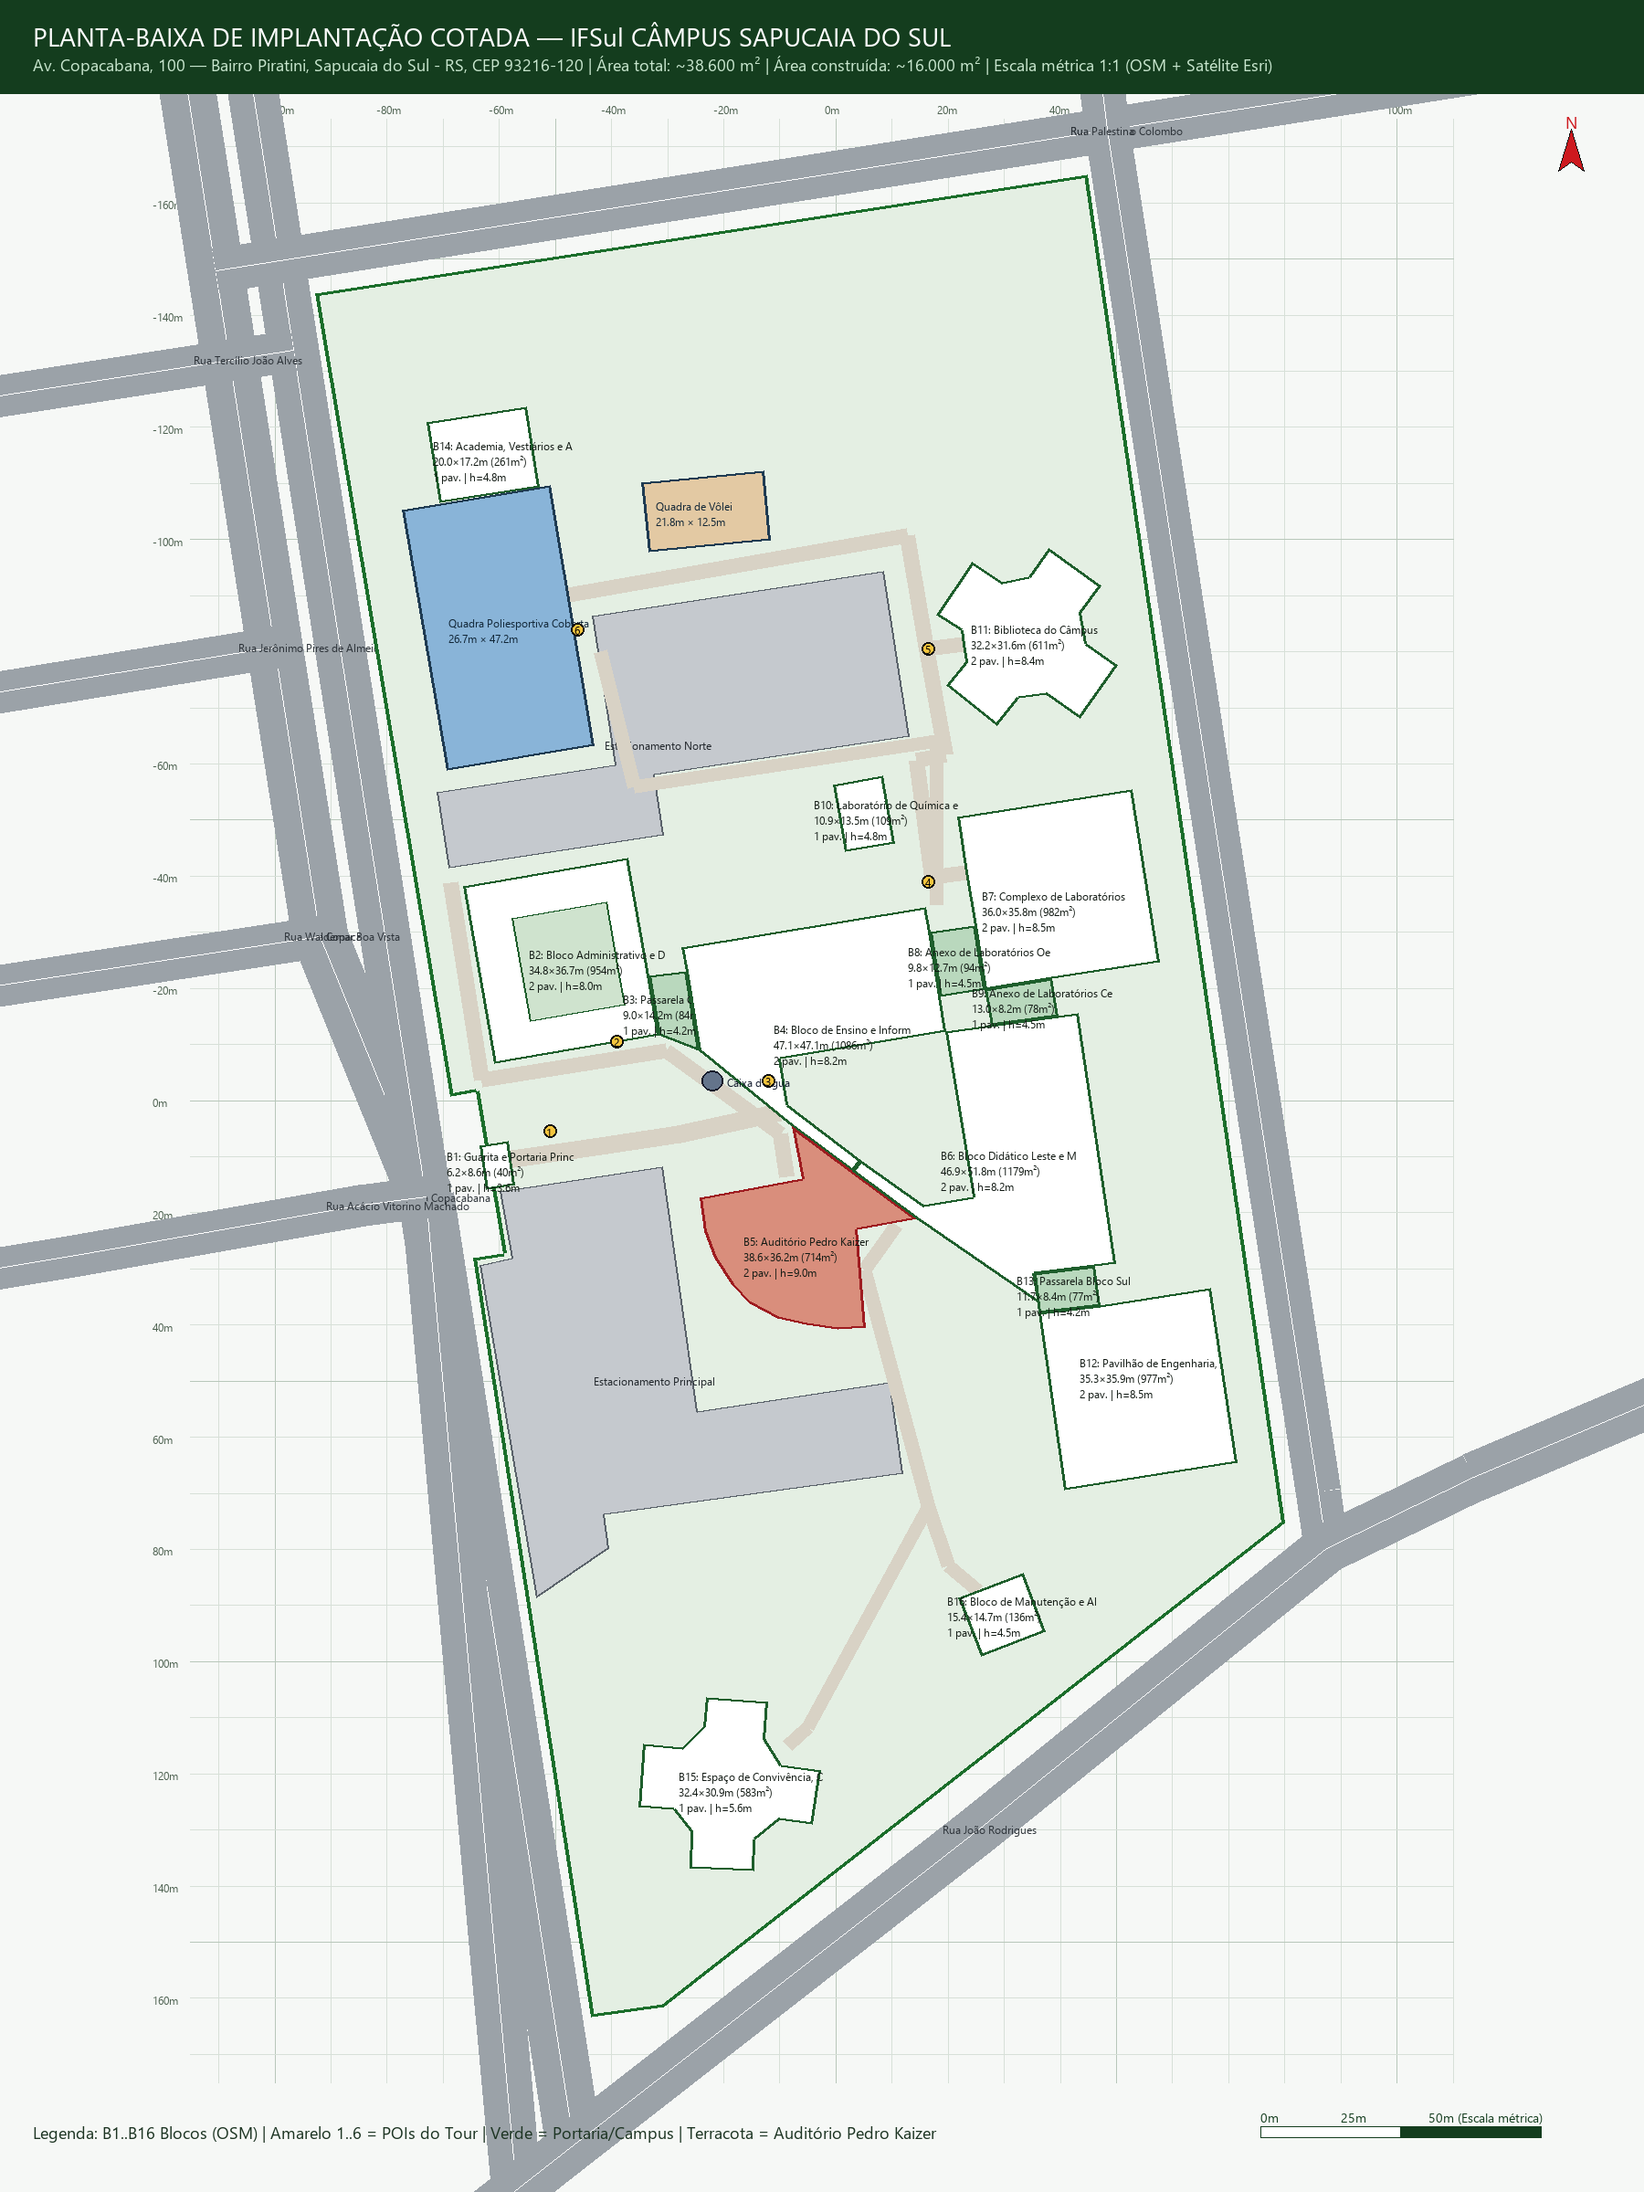
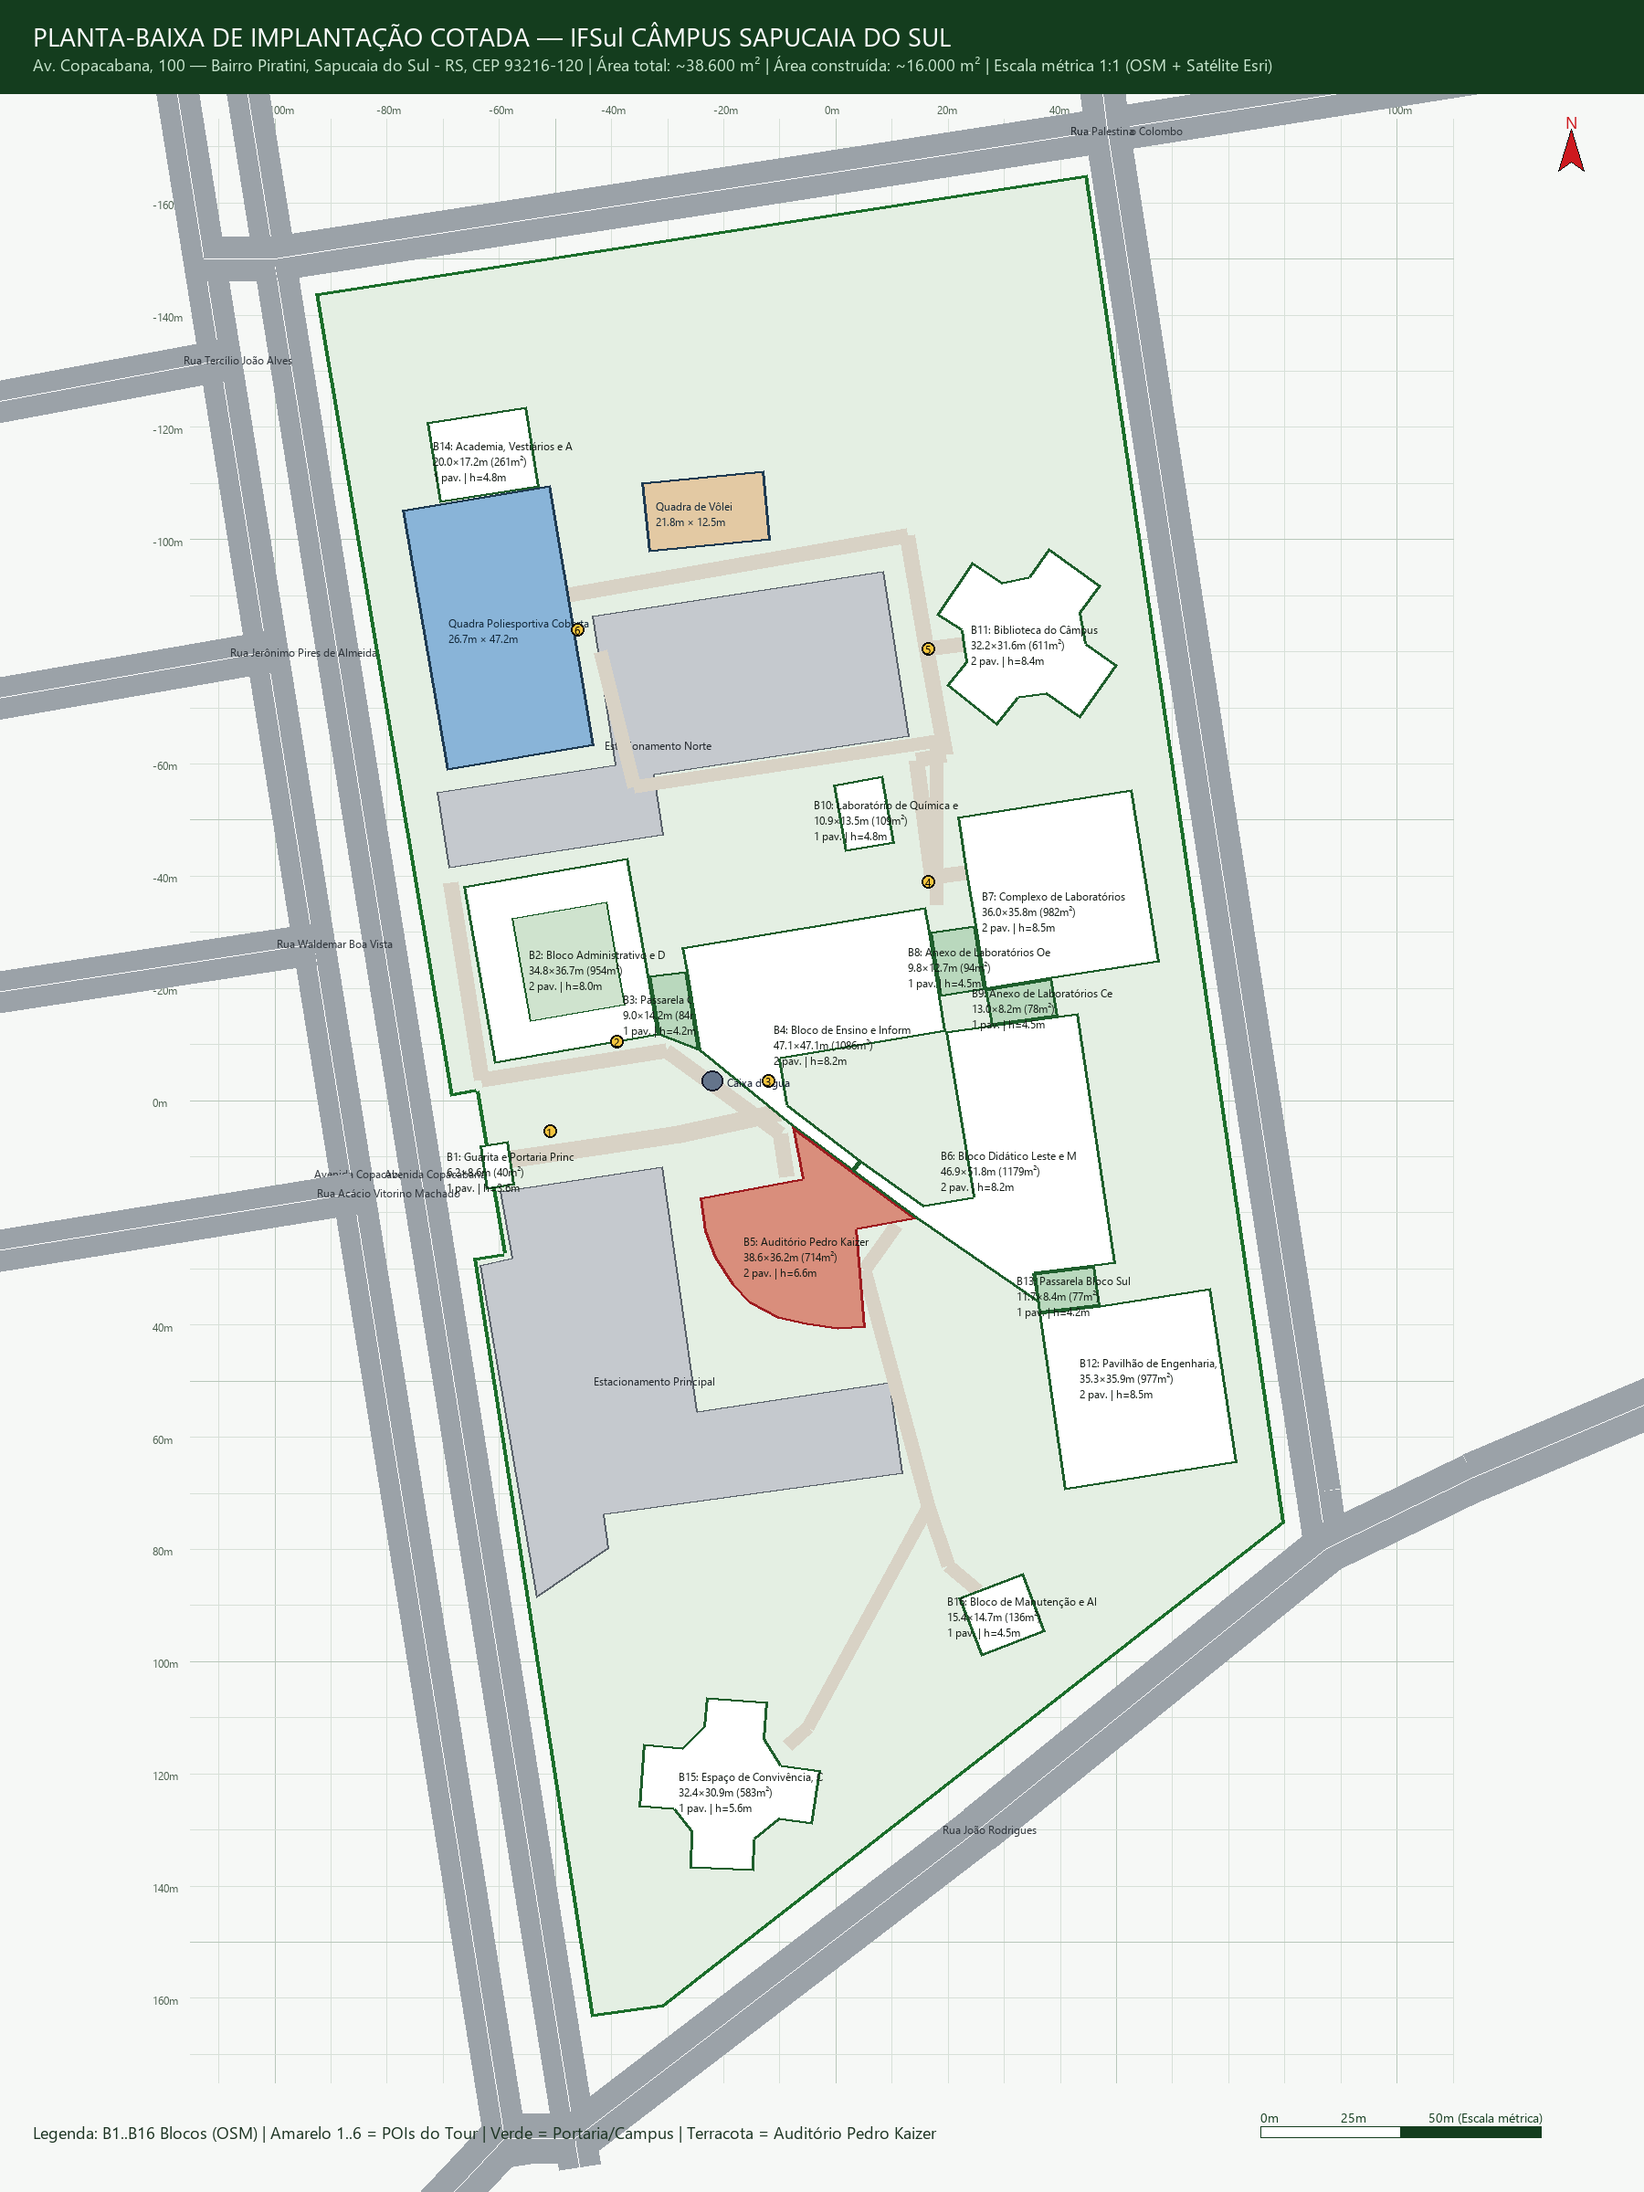
iter 13: fix Av. Copacabana dual carriageway, vegetated central median, intersections and crosswalks

Changed region(s): [[0.0, 0.0312, 0.4044, 1.0], [0.0311, 0.1562, 0.0622, 0.1875], [0.0, 0.3125, 0.0311, 0.3438]]

diff --git a/docs/ITERATIONS.md b/docs/ITERATIONS.md
@@ -14,3 +14,4 @@
 | 10 | 01, 02, 03, 07 | Estacionamento sem piso intertravado/faixas amarelas, sem bicicletário e sem topiaria `IFSul` (`MSS-00.444`, `MSS-00.223`) | Piso concreto + faixas amarelas, faixa de pedestres, bicicletário atrás da guarita e jardim topiaria `IFSul` | 7.45ms → 7.09ms (01/02/07 fiéis a `MSS-00.444` e `MSS-00.223`) | keep |
 | 11 | 01, 02, 04, 07 | Área sul sem lago/ilhota/balizadores e base da caixa d'água sem jardim de agaves (`MSS-00.1912`, `MSS-00.2360`) | Lago sul com ilhota e 4 casinhas, 16 balizadores brancos, jardim de agaves/folhagens roxas e canteiro norte | 7.09ms → 7.12ms (02/04 paisagismo e entorno sul completos) | keep |
 | 12 | 01, 02, 05, 08, 09 | Janelas contínuas sem montantes verticais nem condensadoras de AC (`MSS-00.223`, `MSS-00.2485`) | Montantes verticais escuros nas janelas, condensadoras de AC e refletores noturnos no Auditório/lago sul | 7.12ms → 7.27ms (05/08/09 detalhamento completo, `QA_PASS`) | keep |
+| 13 | 01, 02, 03, 09 | Av. Copacabana cruzando pistas na portaria, sem vegetação no canteiro central, cruzamento e faixas bugadas | Pistas paralelas (9,09°), canteiro central gramado com meio-fio/arbustos/árvores, retornos asfaltados, meio-fio amarelo bipartido, tracejado limpo em cruzamentos e faixas de pedestres acima do asfalto + alinhamento do casario oeste | 7.27ms → 7.40ms (01 minimapa/02/03/09 viário e faixas limpos, `QA_PASS`) | keep |

diff --git a/docs/BACKLOG.md b/docs/BACKLOG.md
@@ -16,3 +16,4 @@
 - ~~[7.5]~~ Piso concreto com vagas amarelas, faixa de pedestres, bicicletário e jardim topiaria `IFSul` (`iter-10`, keep).
 - ~~[6.0]~~ Lago sul com ilhota/casinhas, 16 balizadores brancos e jardim de agaves junto à caixa d'água (`iter-11`, keep).
 - ~~[4.5]~~ Montantes verticais nas janelas, unidades externas de AC e refletores noturnos no Auditório/lago (`iter-12`, keep).
+- ~~[15.0]~~ Correção geométrica da Av. Copacabana em pista dupla paralela (`9.09°`), canteiro central vegetado, retornos asfaltados, faixas de pedestres/tracejado sem clipping e alinhamento do casario oeste (`iter-13`, keep).
